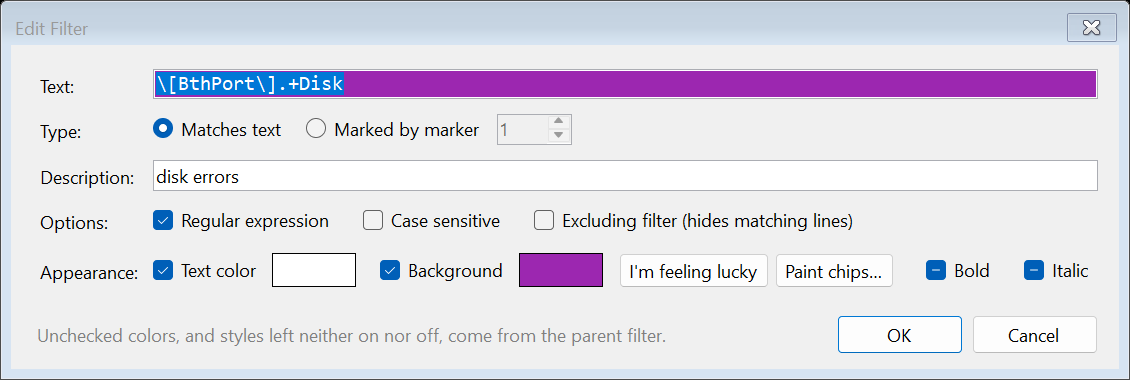
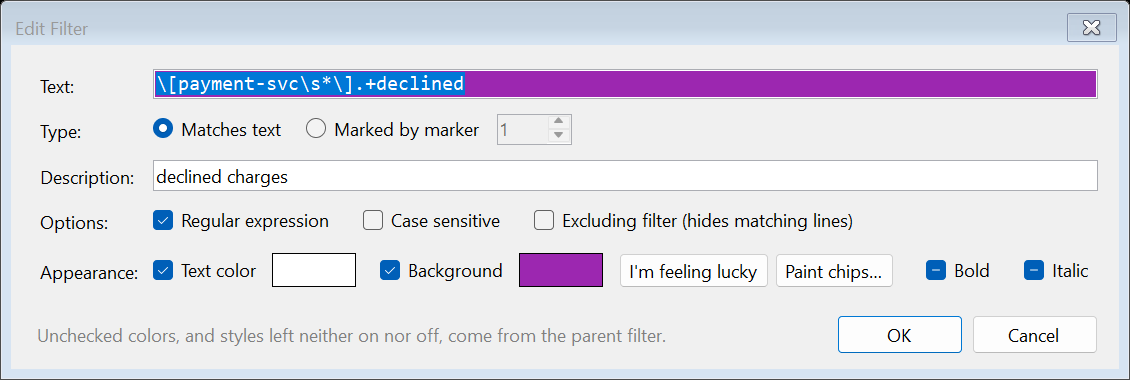
Use a made-up payment filter in the screenshot harness
The Edit Filter shot in the README carried `\[OrderService\].+Disk` / "disk errors",
which is a real filter out of a real trace rather than anything about Cascade.
Nothing from a working filter set belongs in the repo, and the picture reads
better against the same fictional payments log the rest of the README uses.

`\[payment-svc\s*\].+declined` / "declined charges" throughout the block, so the
palette sample, the unbalanced-paren error, the appearance group's other two
filters and the find bar's bad pattern all tell one story instead of three.

Changed region(s): [[0.1549, 0.1737, 0.4336, 0.2605], [0.1239, 0.4342, 0.2478, 0.4921]]

diff --git a/src/Cascade.App/UiShots.cs b/src/Cascade.App/UiShots.cs
@@ -36,27 +36,27 @@ internal static class UiShots
         var demoFilter = new Filter
         {
             Enabled = true,
-            Description = "disk errors",
-            Match = { Text = @"\[OrderService\].+Disk", Regex = true },
+            Description = "declined charges",
+            Match = { Text = @"\[payment-svc\s*\].+declined", Regex = true },
             Style = { Foreground = new RgbColor(0xFF, 0xFF, 0xFF), Background = new RgbColor(0x9C, 0x27, 0xB0) }
         };
         ShotDialog(new FilterEditDialog(demoFilter, isNew: false), outDir, "filter-edit");
 
-        var badFilter = new Filter { Enabled = true, Match = { Text = @"\[OrderService\].+Disk", Regex = true } };
+        var badFilter = new Filter { Enabled = true, Match = { Text = @"\[payment-svc\s*\].+declined", Regex = true } };
         var filterError = new FilterEditDialog(badFilter, isNew: false);
-        filterError.SetTextForTesting(@"\[OrderService\].+(Disk");
+        filterError.SetTextForTesting(@"\[payment-svc\s*\].+(declined");
         ShotDialog(filterError, outDir, "filter-edit-error");
 
         var free = LuckyColors.Free(new[] { demoFilter }, badFilter);
-        ShotDialog(new PaletteDialog(free, @"\[OrderService\].+Disk", null), outDir, "palette");
+        ShotDialog(new PaletteDialog(free, @"\[payment-svc\s*\].+declined", null), outDir, "palette");
 
         // Three filters that agree on a background and disagree on everything else, which is the state the
         // dialog exists to show: one shared colour offered back, the rest saying so.
         var group = new List<Filter>
         {
             demoFilter,
-            new() { Description = "timeouts", Match = { Text = "Timeout" }, Style = { Background = new RgbColor(0x9C, 0x27, 0xB0), Bold = true } },
-            new() { Description = "resets", Match = { Text = "HardReset" }, Style = { Background = new RgbColor(0x9C, 0x27, 0xB0) } },
+            new() { Description = "timeouts", Match = { Text = "upstream timeout" }, Style = { Background = new RgbColor(0x9C, 0x27, 0xB0), Bold = true } },
+            new() { Description = "retries", Match = { Text = "retrying inventory-svc" }, Style = { Background = new RgbColor(0x9C, 0x27, 0xB0) } },
         };
         ShotDialog(new AppearanceDialog(group, group,
                        new ResolvedStyle(new RgbColor(0x1F, 0x1F, 0x1F), new RgbColor(0xFF, 0xFF, 0xFF), false, false)),
@@ -64,7 +64,7 @@ internal static class UiShots
 
         ShotFindBar(outDir, "find", "");
         ShotFindBar(outDir, "find-tally", "Match 12 of 348 lines \u00b7 96 hidden \u00b7 891 of 1,204 hits");
-        ShotFindBar(outDir, "find-badregex", "", badPattern: "bth(port");
+        ShotFindBar(outDir, "find-badregex", "", badPattern: "charge(declined");
 
         var cols = new ColumnSpec();
         ShotDialog(new ColumnsDialog(cols, "[2026-07-16T18:06:48][inventory-svc][3][2FA8][315C][util][Func][INFO][TFLAG] message text"), outDir, "columns");
